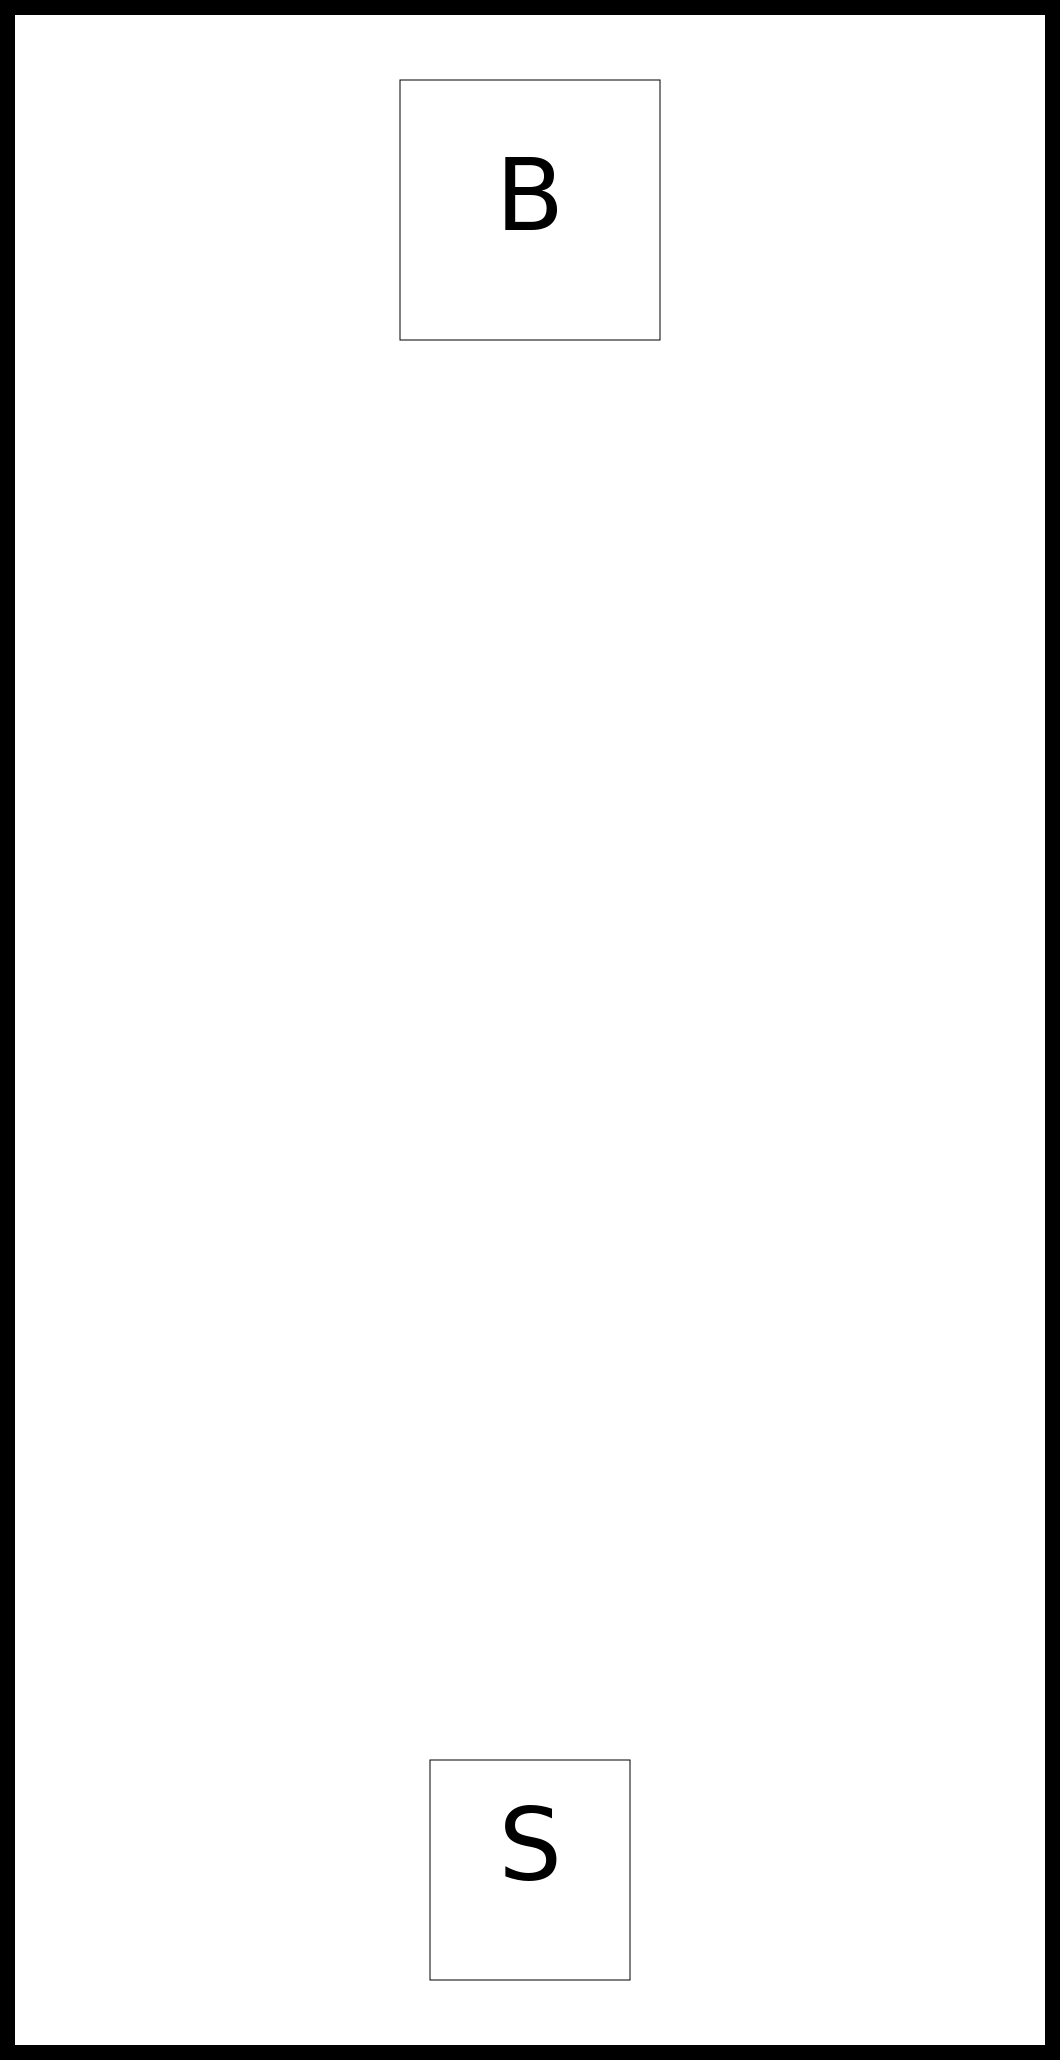
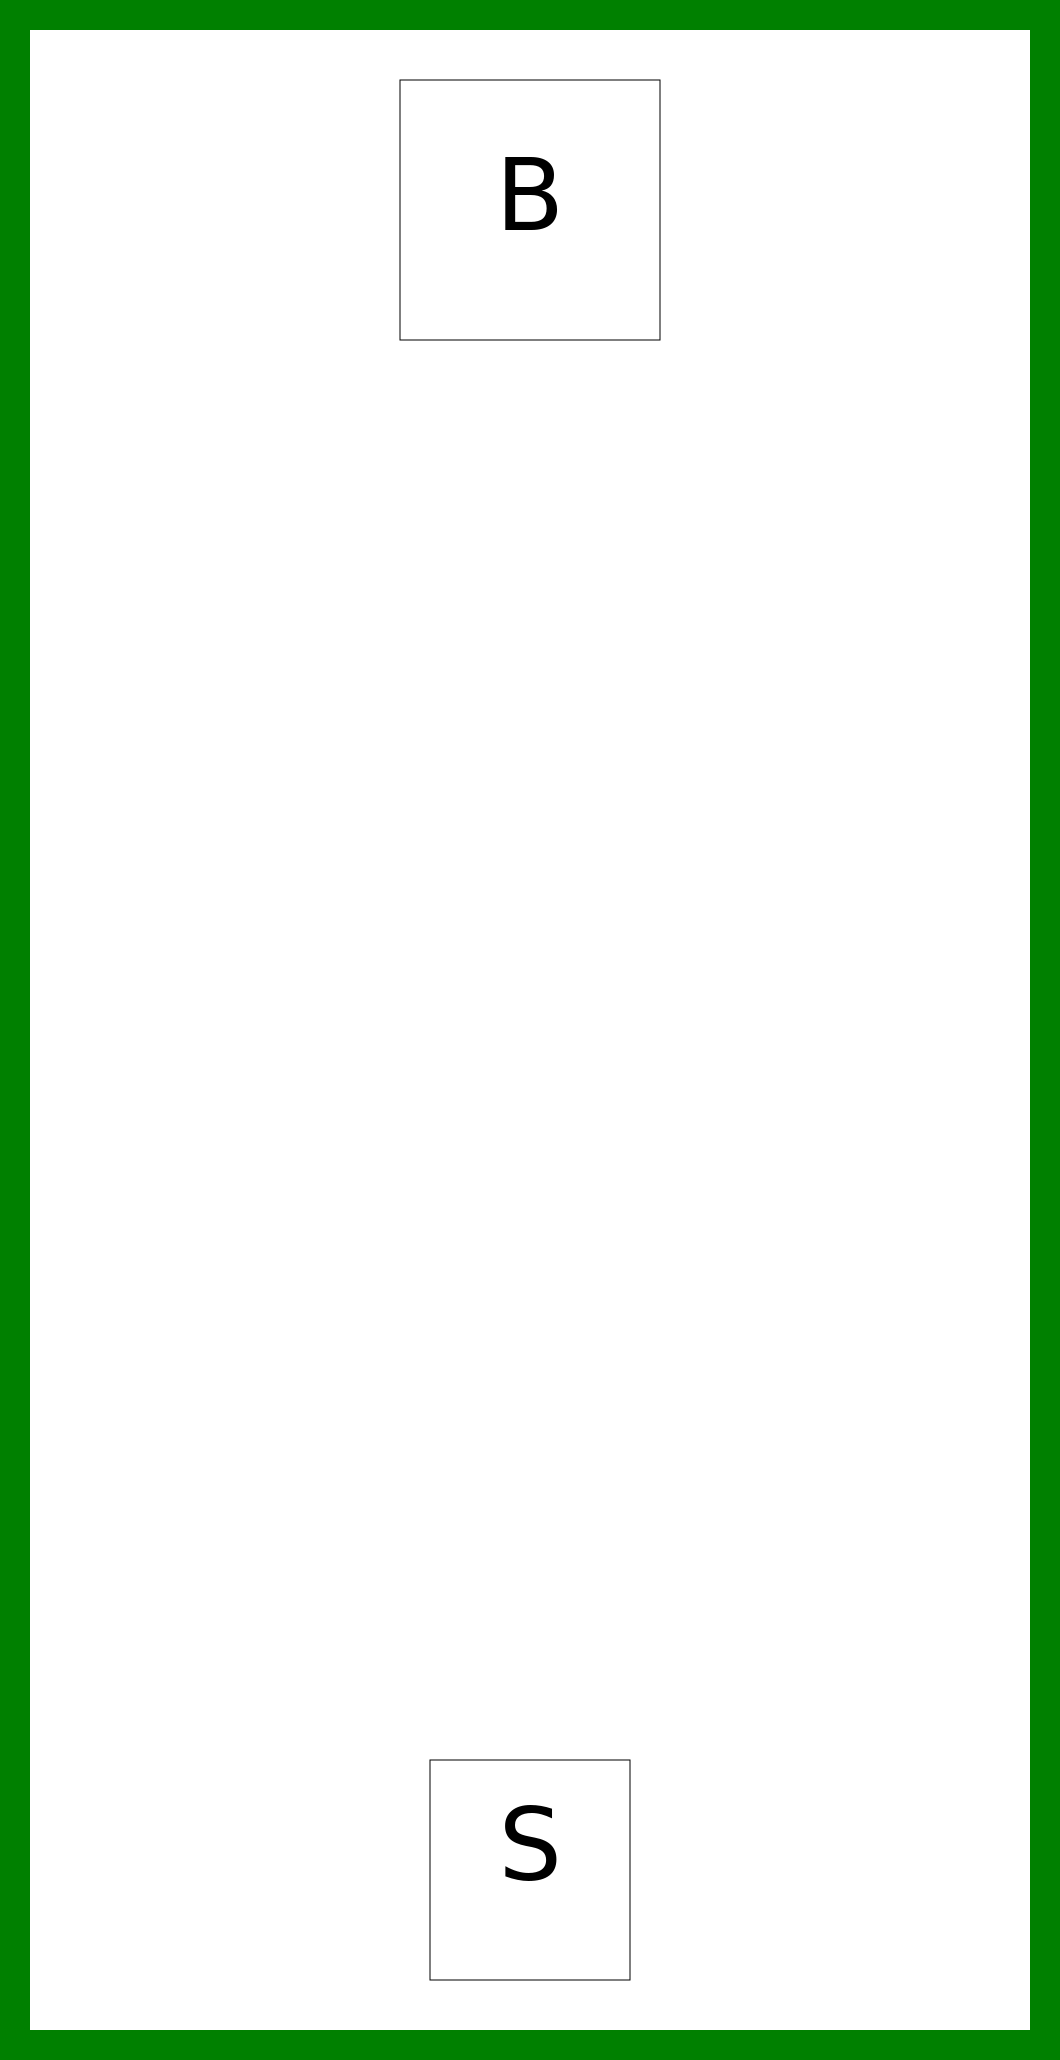
map 3 added

Changed region(s): [[0.0, 0.0, 1.0, 1.0]]

diff --git a/index.js b/index.js
@@ -15,8 +15,8 @@ for (var name in maps) {
     ctx.beginPath();
     ctx.rect(0, 0, w, h);
     ctx.fillStyle = "white";
-    ctx.strokeStyle = "black";
-    ctx.lineWidth = m;
+    ctx.strokeStyle = "green";
+    ctx.lineWidth = m * 2;
     ctx.fill();
     ctx.stroke();
 
@@ -48,7 +48,7 @@ for (var name in maps) {
             case "figure":
                 ctx.fillStyle = 'red';
                 ctx.fill();
-		ctx.lineWidth = 1;
+		ctx.lineWidth = 4;
 		ctx.strokeStyle = "black";
                 ctx.stroke();
             break;
